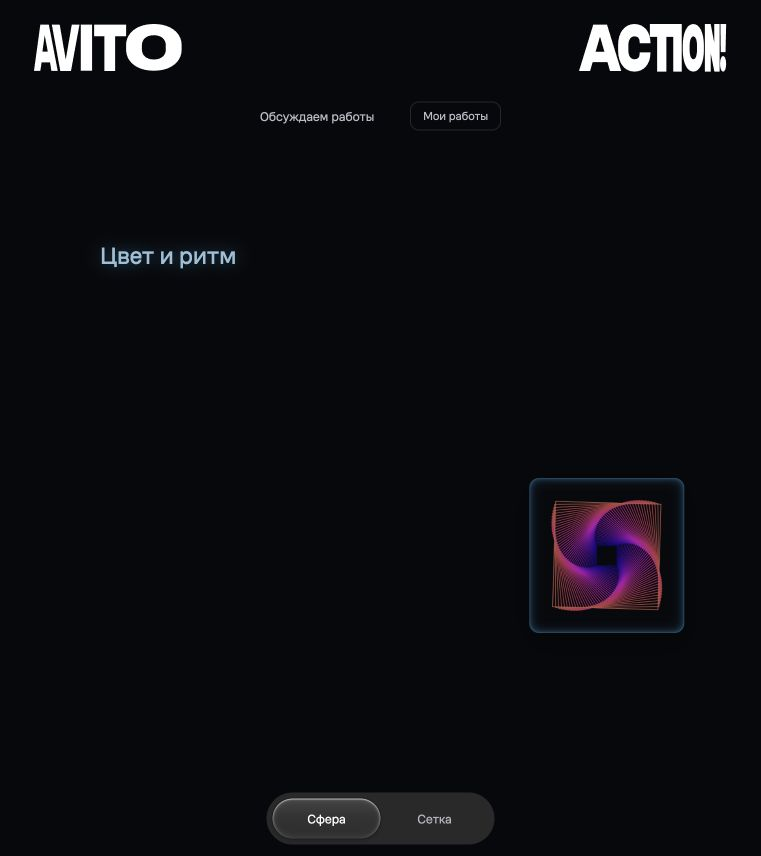
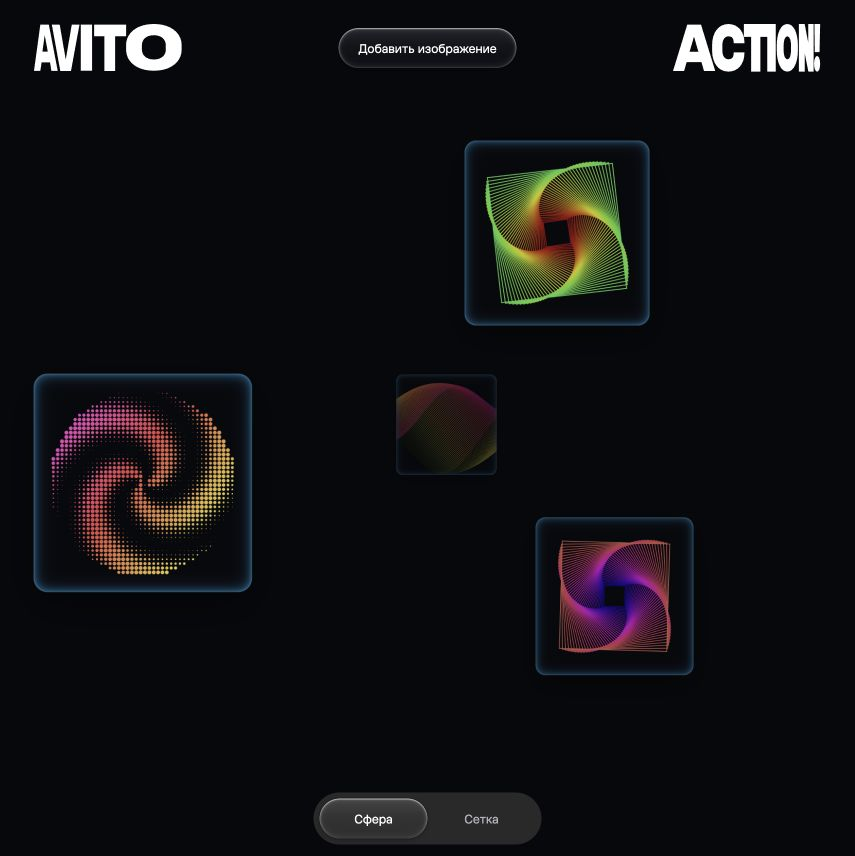
Clarify gallery stages and moderate participant impressions

diff --git a/gallery-prototype/flow.js b/gallery-prototype/flow.js
@@ -6,18 +6,18 @@ async function api(path,body){const res=await fetch('/api/'+path,{method:body===
 function el(tag,text,cls){const e=document.createElement(tag);if(text!==undefined)e.textContent=text;if(cls)e.className=cls;return e}
 function renderMine(){const list=$('#my-list');list.replaceChildren();const statuses={pending:'На модерации',approved:'Опубликована',rejected:'Не одобрена'};for(const w of state.mine){const row=el('div',undefined,'submission-row');row.append(el('strong',w.title),el('span',statuses[w.status]));list.append(row)}if(!state.mine.length)list.append(el('p','Вы ещё не отправляли работы.'))}
 function renderState(next){state=next;const phase=state.settings.phase;
-$('#session-bar').hidden=false;$('#phase-label').textContent={upload:'Приём работ',voting:'Выберите три работы',words:'Что вас привлекло?',results:'Обсуждаем работы'}[phase];$('#vote-budget').textContent=phase==='voting'?`Лайки: ${state.votes.length} из 3`:'';
-$('.upload').hidden=phase!=='upload';$('#empty').textContent=state.settings.liked?'Пока нет работ с лайками':'Пока нет одобренных работ';
+$('#session-bar').hidden=!['voting','words'].includes(phase);$('#vote-budget').textContent=phase==='voting'?`Лайки: ${state.votes.length} из 3`:phase==='words'?'Откройте работу и напишите, что вас зацепило':'';
+$('.upload').hidden=phase!=='upload';$('#empty').textContent=state.settings.liked?'Пока нет работ с лайками':'Здесь скоро появятся работы. Загрузите свою.';
 const shown=state.works.filter(w=>!state.settings.liked||w.likes>0);const visibleIds=new Set(shown.map(w=>w.id));const words=state.words.filter(w=>visibleIds.has(w.work));
 const signature=JSON.stringify([shown.map(w=>[w.id,w.title]),words]);
 if(signature!==stateSignature){stateSignature=signature;transition=null;container.replaceChildren();items=[];shown.forEach(w=>add('/api/image/'+w.id,w.title,w));words.forEach(w=>{const b=el('div',w.text,'word-card');container.append(b);items.push({b,p:null})});stage.classList.toggle('grid',grid);$('#empty').hidden=items.length>0}
 renderMine();if(selectedWork&&$('#detail').open)renderWork(selectedWork);}
-function renderWork(work){selectedWork=state.works.find(w=>w.id===work.id);const box=$('#work-actions');box.replaceChildren();if(!selectedWork){$('#detail').close();return}work=selectedWork;box.append(el('h2',work.title),el('p',work.author));const phase=state.settings.phase;const liked=state.votes.includes(work.id);const vote=el('button',`${liked?'♥':'♡'} ${work.likes} · ${liked?'Нравится':'Нравится?'}`);vote.setAttribute('aria-pressed',String(liked));vote.disabled=phase!=='voting';vote.onclick=async()=>{vote.disabled=true;try{await api('vote',{id:work.id,liked:!liked});await refresh()}catch(e){toast(e.message)}finally{if(vote.isConnected)vote.disabled=phase!=='voting'}};box.append(vote);
-if(phase==='words'&&work.likes>0){const form=el('form');const label=el('label','Что вас привлекло?');const input=el('input');input.placeholder='От одного до трёх слов';input.maxLength=60;input.required=true;input.value=drafts[work.id]??state.ownWords[work.id]??'';input.oninput=()=>drafts[work.id]=input.value;label.append(input);const save=el('button','Сохранить ответ');save.type='submit';form.append(label,save);form.onsubmit=async e=>{e.preventDefault();save.disabled=true;try{await api('words',{id:work.id,text:input.value});delete drafts[work.id];toast('Ответ сохранён');await refresh()}catch(err){toast(err.message)}finally{save.disabled=false}};box.append(form)}}
+function renderWork(work){selectedWork=state.works.find(w=>w.id===work.id);const box=$('#work-actions');box.replaceChildren();if(!selectedWork){$('#detail').close();return}work=selectedWork;box.append(el('h2',work.title),el('p',work.author));const phase=state.settings.phase;const liked=state.votes.includes(work.id);const vote=el('button',`${liked?'♥':'♡'} ${work.likes} · ${liked?'Нравится':'Нравится?'}`);vote.setAttribute('aria-pressed',String(liked));vote.disabled=phase!=='voting';vote.onclick=async()=>{vote.disabled=true;try{await api('vote',{id:work.id,liked:!liked});await refresh()}catch(e){toast(e.message)}finally{if(vote.isConnected)vote.disabled=phase!=='voting'}};if(phase!=='upload')box.append(vote);
+if(phase==='words'&&work.likes>0){const form=el('form');const label=el('label','Что вас привлекло?');const input=el('input');input.placeholder='От одного до трёх слов';input.maxLength=60;input.required=true;input.value=drafts[work.id]??state.ownWords[work.id]??'';input.oninput=()=>drafts[work.id]=input.value;label.append(input);const save=el('button','Сохранить ответ');save.type='submit';form.append(label,save);form.onsubmit=async e=>{e.preventDefault();save.disabled=true;try{await api('words',{id:work.id,text:input.value});delete drafts[work.id];toast('Ответ отправлен на модерацию');await refresh()}catch(err){toast(err.message)}finally{save.disabled=false}};box.append(form)}}
 window.openWork=work=>{if(work)renderWork(work)};
 async function refresh(){renderState(await api('state'))}
 $('.upload').onclick=()=>{if(!apiReady){toast('Откройте рабочую галерею на порту 8767.');return}$('#submission').showModal()};$('.upload').onkeydown=e=>{if(e.key==='Enter'||e.key===' '){e.preventDefault();$('.upload').click()}};
-$('.upload').removeAttribute('for');$('#my-submissions').onclick=()=>$('#my-dialog').showModal();document.querySelectorAll('.dialog-close').forEach(b=>b.onclick=()=>b.closest('dialog').close());
+$('.upload').removeAttribute('for');document.querySelectorAll('.dialog-close').forEach(b=>b.onclick=()=>b.closest('dialog').close());
 $('#files').onchange=async e=>{uploadData='';$('#upload-preview').hidden=true;$('#submit-error').textContent='';const f=e.target.files[0];if(!f)return;if(!['image/png','image/jpeg','image/webp'].includes(f.type)||f.size>20_000_000){$('#submit-error').textContent='Выберите PNG, JPEG или WebP до 20 МБ.';e.target.value='';return}const url=URL.createObjectURL(f);try{const img=new Image();img.src=url;await img.decode();const scale=Math.min(1,2000/Math.max(img.width,img.height));const c=document.createElement('canvas');c.width=Math.round(img.width*scale);c.height=Math.round(img.height*scale);const ctx=c.getContext('2d');ctx.fillStyle='#07080b';ctx.fillRect(0,0,c.width,c.height);ctx.drawImage(img,0,0,c.width,c.height);uploadData=c.toDataURL('image/jpeg',.9);$('#upload-preview').src=uploadData;$('#upload-preview').hidden=false}catch{e.target.value='';$('#submit-error').textContent='Не удалось открыть изображение.'}finally{URL.revokeObjectURL(url)}};
 $('#submit-form').onsubmit=async e=>{e.preventDefault();const form=e.target,button=form.querySelector('button');if(!uploadData){$('#submit-error').textContent='Дождитесь загрузки изображения.';return}button.disabled=true;$('#submit-error').textContent='';try{await api('submit',{title:form.elements.title.value,author:form.elements.author.value,image:uploadData.split(',')[1]});form.reset();uploadData='';$('#upload-preview').hidden=true;$('#submission').close();toast('Работа отправлена на модерацию');await refresh();$('#my-dialog').showModal()}catch(err){$('#submit-error').textContent=err.message}finally{button.disabled=false}};
 (async()=>{try{participant=localStorage.getItem(participantKey)||'';if(!participant){participant=(await api('join',{})).token;localStorage.setItem(participantKey,participant)}await refresh();apiReady=true;setInterval(()=>{if(!document.hidden&&!$('#work-actions input:focus'))refresh().catch(()=>{})},2500)}catch{names.forEach((n,i)=>add(art(i),n));toast('Визуальный прототип. Рабочий сценарий: localhost:8767')}})();

diff --git a/gallery-prototype/admin.js b/gallery-prototype/admin.js
@@ -1,12 +1,15 @@
-const $=s=>document.querySelector(s);let key=sessionStorage.getItem('gallery-admin')||'',settings=null,works=[],signature='',urls=[];
+const $=s=>document.querySelector(s);let key=sessionStorage.getItem('gallery-admin')||'',settings=null,works=[],signature='',wordSignature='',urls=[];
 async function request(path,body){const r=await fetch('/api/'+path,{method:body===undefined?'GET':'POST',headers:{'Content-Type':'application/json','Authorization':'Bearer '+key},body:body===undefined?undefined:JSON.stringify(body)});const data=await r.json();if(!r.ok)throw Error(data.error);return data}
 function el(tag,text){const e=document.createElement(tag);if(text!==undefined)e.textContent=text;return e}
-async function refresh(){const [data,state]=await Promise.all([request('admin'),request('state')]);works=data.works;settings=state.settings;$('#login').hidden=true;$('#dashboard').hidden=false;$('#admin-error').textContent='';document.querySelectorAll('[data-phase]').forEach(b=>{b.classList.toggle('active',b.dataset.phase===settings.phase);b.setAttribute('aria-pressed',String(b.dataset.phase===settings.phase))});$('#liked').checked=!!settings.liked;$('#show-words').checked=!!settings.words;$('#session-info').textContent=`Участников: ${data.participants} · На модерации: ${works.filter(w=>w.status==='pending').length} · Опубликовано: ${works.filter(w=>w.status==='approved').length}`;const sig=JSON.stringify([works,$('#filter').value]);if(sig!==signature){signature=sig;await render()}}
+async function refresh(){const [data,state]=await Promise.all([request('admin'),request('state')]);works=data.works;settings=state.settings;renderWords(data.words);const steps={upload:['Приём работ','Запустить голосование','voting'],voting:['Голосование','Перейти к впечатлениям','words'],words:['Сбор впечатлений','Завершить сбор ответов','results'],results:['Итоговый показ','Вернуться к приёму работ','upload']};const step=steps[settings.phase];$('#current-step').textContent=step[0];$('#next-step').textContent=step[1];$('#next-step').onclick=()=>changePhase(step[2]);$('#login').hidden=true;$('#dashboard').hidden=false;$('#admin-error').textContent='';document.querySelectorAll('[data-phase]').forEach(b=>{b.classList.toggle('active',b.dataset.phase===settings.phase);b.setAttribute('aria-pressed',String(b.dataset.phase===settings.phase))});$('#liked').checked=!!settings.liked;$('#show-words').checked=!!settings.words;$('#session-info').textContent=`Участников: ${data.participants} · На модерации: ${works.filter(w=>w.status==='pending').length} · Опубликовано: ${works.filter(w=>w.status==='approved').length}`;const sig=JSON.stringify([works,$('#filter').value]);if(sig!==signature){signature=sig;await render()}}
 async function render(){urls.forEach(URL.revokeObjectURL);urls=[];const box=$('#moderation');box.replaceChildren();const shown=works.filter(w=>$('#filter').value==='all'||w.status===$('#filter').value);if(!shown.length)box.append(el('p','Здесь пока нет работ.'));for(const w of shown){const card=el('article');card.className='moderation-card';const img=el('img');img.alt=w.title;card.append(img,el('h3',w.title),el('p',`${w.author} · Лайки: ${w.likes}`));for(const [status,label] of [['approved','Одобрить'],['rejected','Не показывать'],['pending','На модерацию']]){if(status===w.status)continue;const button=el('button',label);if(status==='approved')button.className='approve';button.onclick=async()=>{button.disabled=true;try{await request('admin/moderate',{id:w.id,status});await refresh()}catch(e){$('#admin-error').textContent=e.message;button.disabled=false}};card.append(button)}box.append(card);const r=await fetch('/api/image/'+w.id,{headers:{Authorization:'Bearer '+key}});if(r.ok){const url=URL.createObjectURL(await r.blob());urls.push(url);img.src=url}}}
 async function update(change){try{await request('admin/settings',{...settings,...change});await refresh()}catch(e){$('#admin-error').textContent=e.message}}
 $('#login').onsubmit=async e=>{e.preventDefault();key=$('#key').value.trim();try{await refresh();sessionStorage.setItem('gallery-admin',key);$('#key').value=''}catch(err){$('#admin-error').textContent=err.message}};
-document.querySelectorAll('[data-phase]').forEach(b=>b.onclick=()=>update({phase:b.dataset.phase,liked:['words','results'].includes(b.dataset.phase),words:b.dataset.phase==='results'}));$('#liked').onchange=e=>update({liked:e.target.checked});$('#show-words').onchange=e=>update({words:e.target.checked});$('#filter').onchange=()=>{signature='';refresh().catch(e=>$('#admin-error').textContent=e.message)};$('#logout').onclick=()=>{sessionStorage.removeItem('gallery-admin');key='';$('#dashboard').hidden=true;$('#login').hidden=false};
+function changePhase(phase){return update({phase,liked:['words','results'].includes(phase),words:['words','results'].includes(phase)})}
+document.querySelectorAll('[data-phase]').forEach(b=>b.onclick=()=>changePhase(b.dataset.phase));$('#liked').onchange=e=>update({liked:e.target.checked});$('#show-words').onchange=e=>update({words:e.target.checked});$('#filter').onchange=()=>{signature='';refresh().catch(e=>$('#admin-error').textContent=e.message)};$('#logout').onclick=()=>{sessionStorage.removeItem('gallery-admin');key='';$('#dashboard').hidden=true;$('#login').hidden=false};
 for(let i=1;i<=3;i++){const a=el('a','Тестовый участник '+i);a.href='./?participant=test-'+i;a.target='_blank';a.rel='noopener';$('#participant-links').append(a)}
 if(location.hash.startsWith('#key=')){key=decodeURIComponent(location.hash.slice(5));history.replaceState(null,'',location.pathname);sessionStorage.setItem('gallery-admin',key)}
 if(key)refresh().catch(e=>$('#admin-error').textContent=e.message);setInterval(()=>{if(key&&!document.hidden)refresh().catch(e=>$('#admin-error').textContent=e.message)},3000);
 $('#demo').onclick=async()=>{const b=$('#demo');b.disabled=true;try{const join=await request('join',{});for(let i=0;i<6;i++){const response=await fetch('/api/submit',{method:'POST',headers:{'Content-Type':'application/json','X-Participant':join.token},body:JSON.stringify({title:names[i],author:'Демо-участник',image:art(i).split(',')[1]})});const result=await response.json();if(!response.ok)throw Error(result.error)}await refresh()}catch(e){$('#admin-error').textContent=e.message}finally{b.disabled=false}};
+
+function renderWords(words){const sig=JSON.stringify(words);if(sig===wordSignature)return;wordSignature=sig;const box=$('#word-moderation');box.replaceChildren();if(!words.length)box.append(el('p','Ответов пока нет.'));for(const w of words){const row=el('article');row.className='word-review';row.append(el('strong',w.text),el('p',w.title+' · '+({pending:'На модерации',approved:'На экране',rejected:'Не одобрено'}[w.status])));for(const [status,label] of [['approved','Одобрить'],['rejected','Не показывать']]){if(status===w.status)continue;const b=el('button',label);b.onclick=async()=>{b.disabled=true;try{await request('admin/moderate-word',{id:w.id,status});await refresh()}catch(e){$('#admin-error').textContent=e.message;b.disabled=false}};row.append(b)}box.append(row)}}

diff --git a/gallery-prototype/admin.html b/gallery-prototype/admin.html
@@ -1,1 +1,1 @@
-<!doctype html><html lang="ru"><meta charset="utf-8"><meta name="viewport" content="width=device-width,initial-scale=1"><title>Галерея · Администратор</title><link rel="stylesheet" href="style.css"><link rel="stylesheet" href="admin.css"><header><img class="brand-logo" src="assets/logo-left.svg" alt="Avito"><a href="./" target="_blank">Открыть галерею ↗</a><img class="brand-logo brand-right" src="assets/logo-right.svg" alt="Action"></header><section class="admin-wrap"><h1>Управление галереей</h1><form id="login"><label>Ключ администратора<input id="key" type="password" required autocomplete="current-password"></label><button>Войти</button><p>Ключ хранится локально в gallery-prototype/.local-data/admin-key</p></form><div id="dashboard" hidden><section class="admin-panel"><h2>Этап встречи</h2><div id="phases"><button data-phase="upload">1. Приём работ</button><button data-phase="voting">2. Голосование</button><button data-phase="words">3. Впечатления</button><button data-phase="results">4. Обсуждение</button></div><div class="display-options"><label><input type="checkbox" id="liked"> Показывать только работы с лайками</label><label><input type="checkbox" id="show-words"> Показывать слова на сфере</label></div><p id="session-info"></p></section><section class="admin-panel"><h2>Участники</h2><p>Локальная проверка: ссылки работают на этом компьютере. Каждый тестовый участник получает свои три лайка.</p><div id="participant-links"></div><p><button id="demo">Добавить 6 демо-работ на модерацию</button></p></section><section class="admin-panel"><div class="moderation-head"><h2>Работы</h2><select id="filter" aria-label="Статус работ"><option value="pending">На модерации</option><option value="approved">Опубликованные</option><option value="rejected">Не одобрены</option><option value="all">Все работы</option></select></div><div id="moderation"></div></section><button id="logout">Выйти из админки</button></div><p id="admin-error" role="alert"></p></section><script src="artwork.js"></script><script src="admin.js"></script></html>
+<!doctype html><html lang="ru"><meta charset="utf-8"><meta name="viewport" content="width=device-width,initial-scale=1"><title>Галерея · Администратор</title><link rel="stylesheet" href="style.css"><link rel="stylesheet" href="admin.css"><header><img class="brand-logo" src="assets/logo-left.svg" alt="Avito"><a href="./" target="_blank">Открыть галерею ↗</a><img class="brand-logo brand-right" src="assets/logo-right.svg" alt="Action"></header><section class="admin-wrap"><h1>Управление галереей</h1><form id="login"><label>Ключ администратора<input id="key" type="password" required autocomplete="current-password"></label><button>Войти</button><p>Ключ хранится локально в gallery-prototype/.local-data/admin-key</p></form><div id="dashboard" hidden><section class="admin-panel"><h2>Этап встречи</h2><p id="current-step"></p><button id="next-step"></button><details><summary>Выбрать этап вручную</summary><div id="phases"><button data-phase="upload">1. Приём работ</button><button data-phase="voting">2. Голосование</button><button data-phase="words">3. Впечатления</button><button data-phase="results">4. Обсуждение</button></div></details><div class="display-options"><label><input type="checkbox" id="liked"> Показывать только работы с лайками</label><label><input type="checkbox" id="show-words"> Показывать слова на сфере</label></div><p id="session-info"></p></section><section class="admin-panel"><h2>Участники</h2><p>Локальная проверка: ссылки работают на этом компьютере. Каждый тестовый участник получает свои три лайка.</p><div id="participant-links"></div><p><button id="demo">Добавить 6 демо-работ на модерацию</button></p></section><section class="admin-panel"><div class="moderation-head"><h2>Работы</h2><select id="filter" aria-label="Статус работ"><option value="pending">На модерации</option><option value="approved">Опубликованные</option><option value="rejected">Не одобрены</option><option value="all">Все работы</option></select></div><div id="moderation"></div></section><section class="admin-panel"><h2>Слова участников</h2><p>Одобренные ответы появляются на сфере. Изменённый ответ проходит модерацию заново.</p><div id="word-moderation"></div></section><button id="logout">Выйти из админки</button></div><p id="admin-error" role="alert"></p></section><script src="artwork.js"></script><script src="admin.js"></script></html>

diff --git a/gallery-prototype/index.html b/gallery-prototype/index.html
@@ -1,1 +1,1 @@
-<!doctype html><html lang="ru"><meta charset="utf-8"><meta name="viewport" content="width=device-width,initial-scale=1"><title>Action / Галерея</title><link rel="stylesheet" href="style.css"><header><img class="brand-logo" src="assets/logo-left.svg" alt="Логотип слева"><label class="upload" tabindex="0" role="button" aria-label="Добавить изображение">Добавить изображение</label><img class="brand-logo brand-right" src="assets/logo-right.svg" alt="Логотип справа"></header><div id="session-bar" hidden><span id="phase-label"></span><span id="vote-budget"></span><button id="my-submissions">Мои работы</button></div><main><div id="stage"><div id="cards"></div><div id="empty" hidden>Пока нет одобренных работ</div></div></main><footer><div class="view-segments" role="group" aria-label="Вид галереи"><button id="sphere" class="active" aria-pressed="true">Сфера</button><button id="grid" aria-pressed="false">Сетка</button></div></footer><dialog id="detail"><button id="close" aria-label="Закрыть">✕</button><img id="large" alt=""><div id="work-actions"></div></dialog><dialog id="submission"><button class="dialog-close" aria-label="Закрыть">✕</button><h2>Добавить изображение</h2><p>Работа появится в галерее после одобрения.</p><form id="submit-form"><label>Ваше имя<input name="author" maxlength="60" required autocomplete="name"></label><label>Название работы<input name="title" maxlength="80" required></label><label class="file-field">Изображение<input id="files" type="file" accept="image/png,image/jpeg,image/webp" required></label><img id="upload-preview" alt="Предпросмотр" hidden><button type="submit">Отправить на модерацию</button><p id="submit-error" role="alert"></p></form></dialog><dialog id="my-dialog"><button class="dialog-close" aria-label="Закрыть">✕</button><h2>Мои работы</h2><div id="my-list"></div></dialog><div id="toast" role="status" hidden></div><script src="artwork.js"></script><script src="app.js"></script><script src="flow.js"></script></html>
+<!doctype html><html lang="ru"><meta charset="utf-8"><meta name="viewport" content="width=device-width,initial-scale=1"><title>Action / Галерея</title><link rel="stylesheet" href="style.css"><header><img class="brand-logo" src="assets/logo-left.svg" alt="Логотип слева"><label class="upload" tabindex="0" role="button" aria-label="Добавить изображение">Добавить изображение</label><img class="brand-logo brand-right" src="assets/logo-right.svg" alt="Логотип справа"></header><div id="session-bar" hidden><span id="vote-budget"></span></div><main><div id="stage"><div id="cards"></div><div id="empty" hidden>Пока нет одобренных работ</div></div></main><footer><div class="view-segments" role="group" aria-label="Вид галереи"><button id="sphere" class="active" aria-pressed="true">Сфера</button><button id="grid" aria-pressed="false">Сетка</button></div></footer><dialog id="detail"><button id="close" aria-label="Закрыть">✕</button><img id="large" alt=""><div id="work-actions"></div></dialog><dialog id="submission"><button class="dialog-close" aria-label="Закрыть">✕</button><h2>Добавить изображение</h2><p>Работа появится в галерее после одобрения.</p><form id="submit-form"><label>Ваше имя<input name="author" maxlength="60" required autocomplete="name"></label><label>Название работы<input name="title" maxlength="80" required></label><label class="file-field">Изображение<input id="files" type="file" accept="image/png,image/jpeg,image/webp" required></label><img id="upload-preview" alt="Предпросмотр" hidden><button type="submit">Отправить на модерацию</button><p id="submit-error" role="alert"></p></form></dialog><dialog id="my-dialog"><button class="dialog-close" aria-label="Закрыть">✕</button><h2>Мои работы</h2><div id="my-list"></div></dialog><div id="toast" role="status" hidden></div><script src="artwork.js"></script><script src="app.js"></script><script src="flow.js"></script></html>

diff --git a/gallery-prototype/admin.css b/gallery-prototype/admin.css
@@ -1,2 +1,4 @@
 body{overflow:auto}a{color:#c4dfff;text-decoration:none}header a{justify-self:center;font-size:13px}.admin-wrap{max-width:1100px;margin:auto;padding:24px}.admin-wrap h1{max-width:none;font-size:32px;margin:12px 0 28px}.admin-panel{background:#101116;border:1px solid #ffffff18;border-radius:20px;padding:24px;margin-bottom:20px}.admin-panel h2{font:22px Display,Arial;margin:0 0 18px}.admin-panel p{font-size:13px;line-height:1.5}#phases{display:flex;gap:8px;flex-wrap:wrap}#phases .active{background:#2c526b;border-color:#65b9e8}.display-options{display:flex;gap:24px;flex-wrap:wrap;margin:24px 0}.display-options label{display:flex;gap:8px;align-items:center;font-size:13px}input[type=checkbox]{accent-color:#72ceff}#participant-links{display:flex;gap:18px;flex-wrap:wrap}.moderation-head{display:flex;justify-content:space-between;gap:20px}select,input[type=password]{font:inherit;color:#fff;background:#24252a;border:1px solid #ffffff24;padding:10px;border-radius:9px}#moderation{display:grid;grid-template-columns:repeat(auto-fill,minmax(220px,1fr));gap:20px;margin-top:20px}.moderation-card{min-width:0;border-radius:14px;padding:14px;background:#1a1b21}.moderation-card img{width:100%;aspect-ratio:1;object-fit:contain;border-radius:10px;background:#07080b}.moderation-card h3{overflow-wrap:anywhere}.moderation-card p{overflow-wrap:anywhere}.moderation-card button{font-size:12px;margin-right:6px;padding:9px}.moderation-card .approve{background:#234939}#login{display:grid;gap:16px;max-width:500px}#login label{display:grid;gap:8px}#admin-error{color:#ffa8b4}.admin-wrap #logout{margin-bottom:30px}
 #phases .active{background-color:#454545;border:0}.moderation-card .approve{background-color:#303030}.admin-panel{background:#292b2bef;border-color:#484a4c;border-radius:24px}.moderation-card{background:#222424}#phases button{min-height:40px}
+
+#next-step{margin-bottom:20px}details summary{cursor:pointer;color:#aaa;margin-bottom:16px}.word-review{padding:16px 0;border-bottom:1px solid #ffffff20}.word-review button{margin-right:8px}

diff --git a/gallery-prototype/server.py b/gallery-prototype/server.py
@@ -22,6 +22,8 @@ with connect() as c:
     CREATE TABLE IF NOT EXISTS words(person TEXT NOT NULL REFERENCES participants(token),work TEXT NOT NULL REFERENCES works(id),text TEXT NOT NULL, PRIMARY KEY(person,work));
     CREATE TABLE IF NOT EXISTS settings(id INTEGER PRIMARY KEY, phase TEXT, liked INTEGER, words INTEGER);
     INSERT OR IGNORE INTO settings VALUES(1,'upload',0,0);''')
+    if 'status' not in [r[1] for r in c.execute('PRAGMA table_info(words)')]:
+        c.execute("ALTER TABLE words ADD COLUMN status TEXT NOT NULL DEFAULT 'pending'")
 class Error(Exception):
     def __init__(self, message, status=400): self.message,self.status=message,status
 class Handler(SimpleHTTPRequestHandler):
@@ -47,12 +49,12 @@ class Handler(SimpleHTTPRequestHandler):
                         works=[dict(r) for r in c.execute("SELECT id,title,author,(SELECT COUNT(*) FROM votes v WHERE v.work=w.id) likes FROM works w WHERE status='approved' ORDER BY created")]
                         votes=[r[0] for r in c.execute('SELECT work FROM votes WHERE person=?',(person,))]
                         mine=[dict(r) for r in c.execute('SELECT id,title,status FROM works WHERE owner=? ORDER BY created DESC',(person,))]
-                        words=[dict(r) for r in c.execute("SELECT w.work,w.text FROM words w JOIN works a ON a.id=w.work WHERE a.status='approved' AND EXISTS(SELECT 1 FROM votes v WHERE v.work=w.work)")] if settings['words'] else []
+                        words=[dict(r) for r in c.execute("SELECT w.work,w.text FROM words w JOIN works a ON a.id=w.work WHERE w.status='approved' AND a.status='approved' AND EXISTS(SELECT 1 FROM votes v WHERE v.work=w.work)")] if settings['words'] else []
                         ownWords={r[0]:r[1] for r in c.execute('SELECT work,text FROM words WHERE person=?',(person,))}
                         return self.reply(dict(settings=settings,works=works,votes=votes,mine=mine,words=words,ownWords=ownWords))
                     if path=='/api/admin':
                         if not self.admin(): raise Error('Нужен ключ администратора.',401)
-                        return self.reply(dict(works=[dict(r) for r in c.execute('SELECT id,title,author,status,(SELECT COUNT(*) FROM votes v WHERE v.work=w.id) likes FROM works w ORDER BY created DESC')],participants=c.execute('SELECT COUNT(*) FROM participants').fetchone()[0]))
+                        return self.reply(dict(works=[dict(r) for r in c.execute('SELECT id,title,author,status,(SELECT COUNT(*) FROM votes v WHERE v.work=w.id) likes FROM works w ORDER BY created DESC')],words=[dict(r) for r in c.execute('SELECT w.rowid id,w.text,w.status,a.title FROM words w JOIN works a ON a.id=w.work')],participants=c.execute('SELECT COUNT(*) FROM participants').fetchone()[0]))
                     if path.startswith('/api/image/'):
                         row=c.execute('SELECT image,mime,status FROM works WHERE id=?',(path.split('/')[-1],)).fetchone()
                         if not row or (row['status']!='approved' and not self.admin()): raise Error('Изображение не найдено.',404)
@@ -86,6 +88,10 @@ class Handler(SimpleHTTPRequestHandler):
                         c.execute('UPDATE works SET status=? WHERE id=?',(body['status'],body['id']))
                         if body['status']!='approved':
                             c.execute('DELETE FROM votes WHERE work=?',(body['id'],));c.execute('DELETE FROM words WHERE work=?',(body['id'],))
+                    elif path=='/api/admin/moderate-word':
+                        if body.get('status') not in ('approved','rejected'):raise Error('Неизвестный статус.')
+                        if not c.execute('SELECT 1 FROM words WHERE rowid=?',(body.get('id'),)).fetchone():raise Error('Ответ не найден.',404)
+                        c.execute('UPDATE words SET status=? WHERE rowid=?',(body['status'],body['id']))
                     elif path=='/api/admin/settings':
                         if body.get('phase') not in ('upload','voting','words','results'):raise Error('Неизвестный этап.')
                         c.execute('UPDATE settings SET phase=?,liked=?,words=? WHERE id=1',(body['phase'],bool(body.get('liked')),bool(body.get('words'))))
@@ -117,7 +123,7 @@ class Handler(SimpleHTTPRequestHandler):
                     text=' '.join(str(body.get('text','')).split())
                     if not 1<=len(text.split())<=3 or len(text)>60:raise Error('Напишите от одного до трёх слов, до 60 символов.')
                     if not c.execute('SELECT 1 FROM votes WHERE work=?',(ident,)).fetchone():raise Error('Выберите работу с лайками.')
-                    c.execute('INSERT INTO words VALUES(?,?,?) ON CONFLICT(person,work) DO UPDATE SET text=excluded.text',(person,ident,text))
+                    c.execute("INSERT INTO words(person,work,text,status) VALUES(?,?,?,'pending') ON CONFLICT(person,work) DO UPDATE SET text=excluded.text,status='pending'",(person,ident,text))
                 else:raise Error('Не найдено.',404)
                 return self.reply({'ok':True})
         except Error as e:self.reply({'error':e.message},e.status)

diff --git a/gallery-prototype/test_server.py b/gallery-prototype/test_server.py
@@ -37,7 +37,15 @@ class FlowTest(unittest.TestCase):
   self.assertEqual(self.call('/api/vote',{'id':ids[0],'liked':False},other)[0],400)
   self.assertEqual(self.call('/api/words',{'id':ids[0],'text':'раз два три четыре'},other)[0],400)
   self.assertEqual(self.call('/api/words',{'id':ids[0],'text':'Цвет и ритм'},other)[0],200)
+  self.assertEqual(self.call('/api/state')[1]['words'],[])
+  word=self.call('/api/admin',admin=True)[1]['words'][0]
+  self.assertEqual(self.call('/api/admin/moderate-word',{'id':word['id'],'status':'approved'})[0],401)
+  self.call('/api/admin/moderate-word',{'id':word['id'],'status':'approved'},admin=True)
   self.assertEqual(self.call('/api/state')[1]['words'][0]['text'],'Цвет и ритм')
+  self.call('/api/words',{'id':ids[0],'text':'Новый ответ'},other)
+  self.assertEqual(self.call('/api/state')[1]['words'],[])
+  self.call('/api/admin/moderate-word',{'id':word['id'],'status':'rejected'},admin=True)
+  self.assertEqual(self.call('/api/state')[1]['words'],[])
   self.call('/api/admin/moderate',{'id':ids[0],'status':'rejected'},admin=True)
   self.assertFalse(any(w['id']==ids[0] for w in self.call('/api/state')[1]['works']))
   self.assertEqual(self.call('/api/state',person=other)[1]['votes'],[])

diff --git a/gallery-prototype/README.md b/gallery-prototype/README.md
@@ -16,7 +16,7 @@ python3 gallery-prototype/server.py
 2. Одобрите работу в админке. До одобрения она недоступна другим участникам, включая прямой адрес изображения.
 3. Перейдите к голосованию. Откройте изображение и поставьте лайк. У каждого участника максимум три лайка на разные работы; лайк можно снять и перенести. В админке есть три независимых тестовых участника.
 4. «Впечатления» закрывает голосование и показывает только работы хотя бы с одним лайком. Любой участник может оставить на такую работу один редактируемый ответ из 1–3 слов.
-5. «Обсуждение» закрывает ввод и показывает работы вместе с ответами. Показ слов и фильтр можно менять вручную.
+5. В админке одобрите ответы в разделе «Слова участников»: они сразу появятся на сфере. Неодобренные ответы скрыты; редактирование возвращает ответ на модерацию. «Завершить сбор ответов» закрывает ввод и сохраняет итоговый показ. Показ слов и фильтр можно менять вручную.
 
 Для быстрого старта в админке можно добавить шесть демо-работ на модерацию. Данные сохраняются в SQLite после обновления и перезапуска. Возврат к предыдущему этапу сохраняет результаты. Снятие работы с публикации удаляет её голоса и ответы; повторное одобрение начинает их сбор заново.
 
